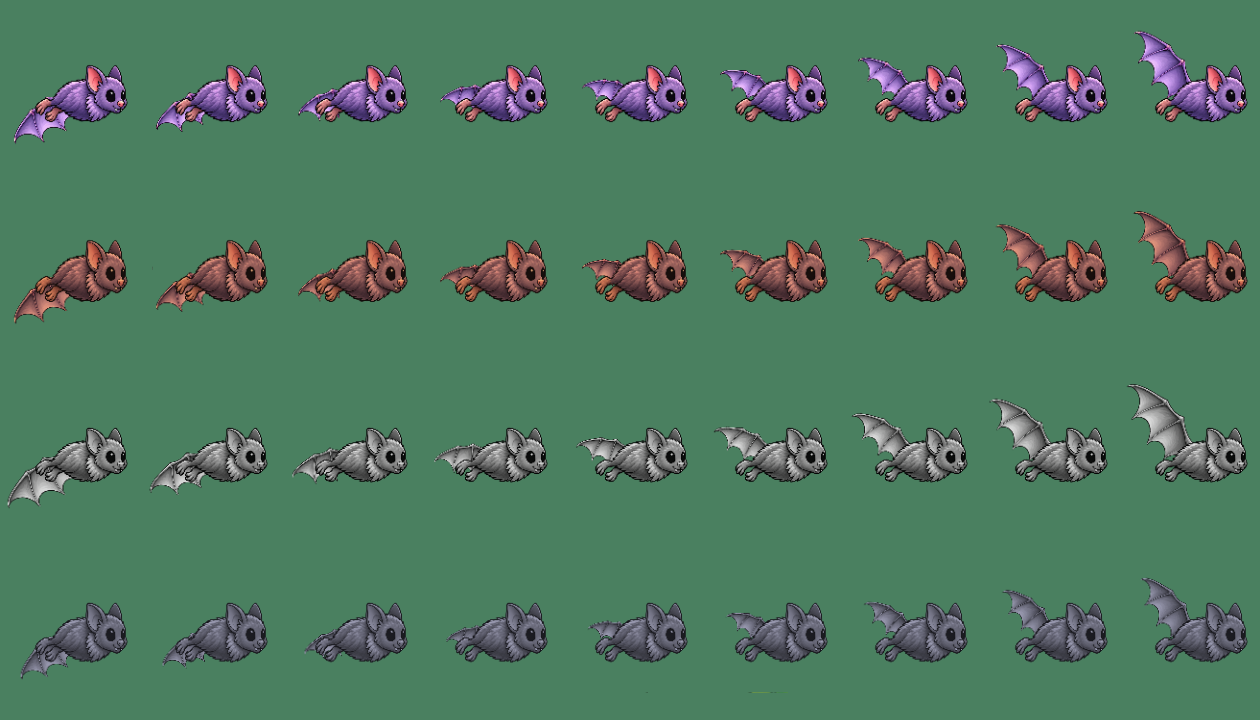
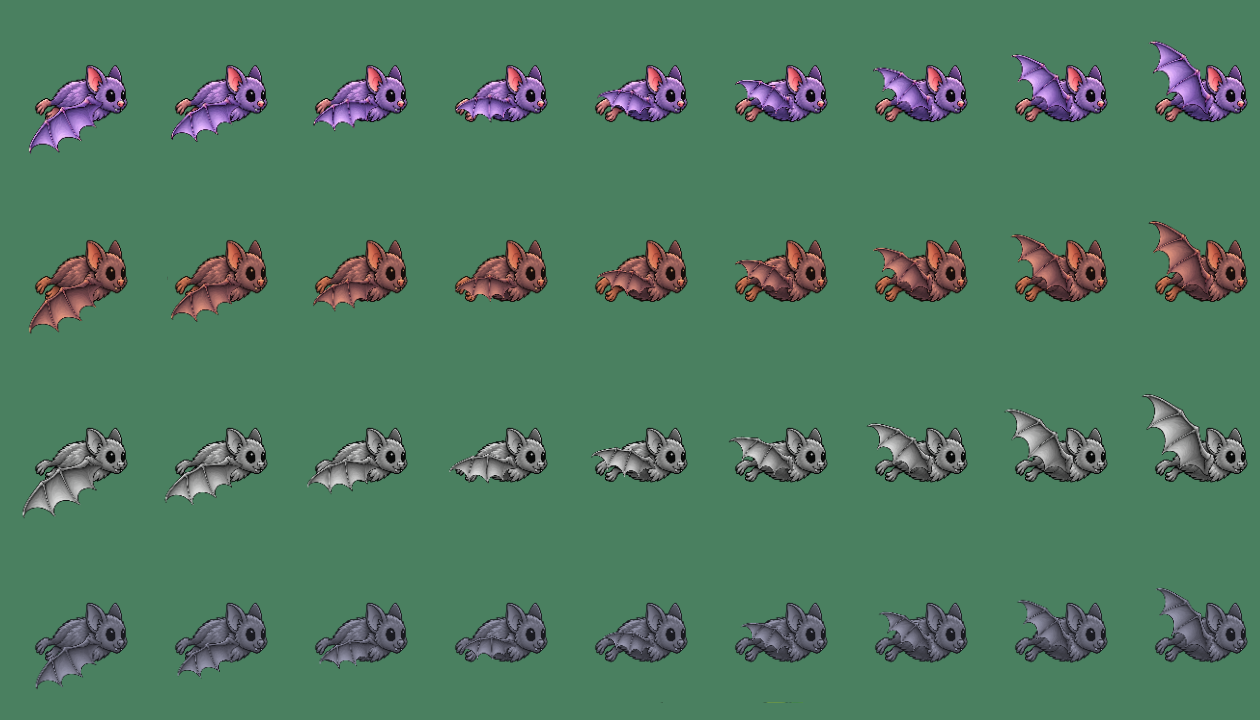
Correct cartoon lighting and creature attachments

diff --git a/tests/artRegistration.test.js b/tests/artRegistration.test.js
@@ -1,5 +1,7 @@
 import { describe, expect, it } from 'vitest';
 import { registerLimb, registerTriangle } from '../src/art/registration.js';
+import { readFileSync } from 'node:fs';
+import { imageSize } from '../src/art/custom.js';
 
 const apply = ([a, b, c, d, e, f], [x, y]) => [a * x + c * y + e, b * x + d * y + f];
 const near = (actual, expected) => actual.forEach((v, i) => expect(v).toBeCloseTo(expected[i], 10));
@@ -20,6 +22,20 @@ describe('painted joint registration', () => {
     const source = [[58, 61], [279, 65], [144, 365]], target = [[-7, -1], [7, -1], [0, 15]];
     const matrix = registerTriangle(source, target);
     source.forEach((point, i) => near(apply(matrix, point), target[i]));
+  });
+
+  it('places the hanging legs at the hip sockets actually exported in the torso', () => {
+    const root = new URL('../art/packs/cartoon/', import.meta.url);
+    const layout = JSON.parse(readFileSync(new URL('source-layout.json', root)));
+    const manifest = JSON.parse(readFileSync(new URL('manifest.json', root)));
+    const svg = readFileSync(new URL('generated/hangingMonkey.body.svg', root), 'utf8');
+    const matrix = svg.match(/href="#[^"]*picture-monkey-torso" transform="matrix\(([^)]+)\)"/)[1].split(' ').map(Number);
+    const { width, height } = imageSize('monkey-torso.png', readFileSync(new URL('components/monkey-torso.png', root)));
+    const marks = layout.components['monkey-torso'].landmarks;
+    for (const [i, name] of ['hipBack', 'hipFront'].entries()) {
+      near(manifest.presentation.hangingMonkeyHips[i], apply(matrix, [marks[name][0] * width, marks[name][1] * height]));
+      expect(manifest.presentation.hangingMonkeyHips[i][1]).toBeLessThan(42);
+    }
   });
 
   it('rejects unusable artist landmarks instead of exporting detached parts', () => {

diff --git a/src/render/world/decorations.js b/src/render/world/decorations.js
@@ -42,7 +42,7 @@ import {
   perchedSnakePose,
 } from '../../views/obstacles.js';
 import { quadraticPoints } from './build.js';
-import { LEG, aim } from '../../views/monkey.js';
+import { LEG } from '../../views/monkey.js';
 
 // The decorations a branch carries, in the Phaser version (as the Pixi DECORATIONS): each
 // builds its part from pieces (`b`, a Builder) and the decoration's random stream, and
@@ -129,15 +129,17 @@ function monkey(b, rand) {
   swing.add([tail, ...legs.flat(), ...(painted ? [arms, body] : [body, arms]), eyes]);
   part.add(swing);
   return {
-    part,
+    part, behindBranch: painted,
     animate(t) {
       const pose = hangingMonkeyPose(t, phase);
       swing.rotation = pose.swing;
       pose.legs.forEach(({ from, to }, i) => {
         if (painted) {
           const leg = legs[i];
-          leg.setPosition(...from).setRotation(aim({ x: from[0], y: from[1] }, { x: to[0], y: to[1] }));
-          leg.scaleY = b.art.unit('monkey.p1.leg') * Math.hypot(to[0] - from[0], to[1] - from[1]) / LEG.length;
+          const hip = b.art.catalog.presentation.hangingMonkeyHips?.[i] ?? from;
+          const dx = to[0] - from[0], dy = to[1] - from[1];
+          leg.setPosition(...hip).setRotation(Math.atan2(-dx, dy));
+          leg.scaleY = b.art.unit('monkey.p1.leg') * Math.hypot(dx, dy) / LEG.length;
           return;
         }
         const [segment, start, end] = legs[i];

diff --git a/src/render/world/obstacles.js b/src/render/world/obstacles.js
@@ -36,7 +36,8 @@ function branch(b, o, rand, hangs, view) {
   const parts = hangs
     ? [...vine(b, box.dx + 30, canopyY(o), box.dy + 2, 8), ...vine(b, box.dx + box.w - 45, canopyY(o), box.dy + 4, -8)]
     : [b.stretched('branch.trunk', BRANCH_TRUNK_X, 0, trunkBottom(o), TRUNK_REFERENCE)];
-  parts.push(b.image('branch.body'));
+  const wood = b.image('branch.body');
+  parts.push(wood);
   for (const { x0, y0, x1, y1 } of branchBarkLines(rand)) {
     const line = b.image('branch.barkLine').setPosition(x0, y0).setRotation(Math.atan2(y1 - y0, x1 - x0));
     line.scaleX = (b.art.unit('branch.barkLine') * Math.hypot(x1 - x0, y1 - y0)) / BARK_LINE_LENGTH;
@@ -44,8 +45,9 @@ function branch(b, o, rand, hangs, view) {
   }
   view.add(parts);
   if (!o.decoration) return null;
-  const { part, animate } = DECORATION_RIGS[o.decoration](b, mulberry32(mixSeed(0xa11a, o.gap)), { hangs });
-  view.add(part);
+  const { part, animate, behindBranch } = DECORATION_RIGS[o.decoration](b, mulberry32(mixSeed(0xa11a, o.gap)), { hangs });
+  if (behindBranch) view.addAt(part, parts.indexOf(wood));
+  else view.add(part);
   return animate;
 }
 

diff --git a/tests/templeFire.test.js b/tests/templeFire.test.js
@@ -1,6 +1,8 @@
 import { describe, it, expect } from 'vitest';
 import { darknessOf } from '../src/views/obstacles.js';
 import { STAGE_TINTS } from '../src/views/backdrop.js';
+import { readFileSync } from 'node:fs';
+import { Resvg } from '@resvg/resvg-js';
 
 describe('temple fires', () => {
   it('measures how dark a stage is from its tint: none by day, most at night', () => {
@@ -11,5 +13,14 @@ describe('temple fires', () => {
     expect(night).toBeGreaterThan(dusk);
     expect(dawn).toBeLessThan(dusk);
     expect(late).toBeGreaterThan(0);
+  });
+
+  it('keeps the cartoon light source opaque so the rig applies its falloff once', () => {
+    const svg = readFileSync(new URL('../art/packs/cartoon/generated/temple.glow.svg', import.meta.url));
+    const { pixels, width, height } = new Resvg(svg).render();
+    const alphaAt = (x, y) => pixels[(y * width + x) * 4 + 3];
+    expect(alphaAt(width / 2, height / 2)).toBe(255);
+    expect(alphaAt(width / 2, height / 4)).toBe(255);
+    expect(alphaAt(0, 0)).toBe(0);
   });
 });

diff --git a/src/render/world/temple.js b/src/render/world/temple.js
@@ -98,14 +98,14 @@ export function templeRig(b, o, rand) {
         shownTint = tint;
       }
       if (!fire) return;
-      const dark = darknessOf(tint);
+      const light = Math.max(darknessOf(tint), art.catalog.presentation?.templeFireDaylight ?? 0);
       TEMPLE_BRAZIERS.forEach((x, i) => {
         const flame = templeFlame(t, phase, i);
         art.setFrame(fire.flames[i], 'temple.flame', flameFrameFor(flame.sway, flame.k));
         fire.flames[i].setX(x);
-        const layers = templeGlowLayers(dark * flame.flicker, flame.reach);
+        const layers = templeGlowLayers(light * flame.flicker, flame.reach);
         fire.glows[i].forEach((disc, j) => {
-          disc.visible = dark > 0;
+          disc.visible = light > 0;
           disc.setPosition(x, TEMPLE_GLOW_Y).setScale((glowUnit * layers[j].radius) / TEMPLE_GLOW_RADIUS).setAlpha(layers[j].alpha);
         });
       });

diff --git a/src/render/world/moving.js b/src/render/world/moving.js
@@ -101,7 +101,12 @@ function bat(b, o) {
   const name = BAT_LOOK_NAMES[BAT_LOOKS.indexOf(flyingBatLook(o.gap))];
   const body = b.container();
   const wing = b.image(`bat.${name}.wing`);
-  body.add([wing, b.image(`bat.${name}.body`)]);
+  const torso = b.image(`bat.${name}.body`);
+  const offset = b.art.catalog.presentation?.batWingOffset;
+  if (offset) wing.setPosition(...offset);
+  // The painted torso shows the near flank: its wing belongs over that fur,
+  // at the shoulder behind the head. Classic retains its original stacking.
+  body.add(offset ? [torso, wing] : [wing, torso]);
   return {
     parts: [body],
     body,

diff --git a/PHASER_PLAN.md b/PHASER_PLAN.md
@@ -815,17 +815,17 @@ Add a clearly labelled **Classic graphics: On/Off** row inside the existing titl
 - Fit branch-snake wraps to the painted limb's thickness (`presentation.snakeLimbThickness`). Blue bird bodies/wings now use lighter cyan and pale highlights; the hive's support is a shaded wooden twig with a short attaching stalk, rather than a gold ribbon. Waterfalls are removed from the mirrored forest master and placed separately: one large and one small per complete 2048-unit panorama, with the same far-layer speed and texture dimensions.
 - Hanging obstacles' support vines now have a pale green center, dark rim and crosswise shading, with matching end caps. These baked textures keep the original support-vine box/width and curve placement, and retain their highlight along the whole hanging length.
 - Climbing snakes now have rounded overlapping coils, a short tapered tail and a smaller head with a connected neck. The cartoon head leads up/down and tilts continuously with the movement phase, keeping its face upright instead of reflecting it vertically. Its reversal is about three times quicker, reducing time spent crossing the coils. The hanging monkey uses warm russet arms/body/tail and matching painted articulated legs/feet, with its hands attached to the painted branch and its face ahead of its raised arms. Player limbs are registered by painted shoulder/palm/hip landmarks, so the visible arm joint coincides with its pivot and the palm with the existing grip distance; the torso's shoulders share those anchors. Cartoon heads/eyes render ahead of the gripping arm (`presentation.monkeyFaceInFront`) for both players and the shadow. Classic art/poses, simulation and grip physics remain unchanged.
-- Temple holders and flames now share brazier centers and a common base height; roof/corner/fringe foliage uses painted leaves registered at their stems, with roof leaves kept inside the source bounds. Flying bats use a separate painted scalloped wing, registered by shoulder/tip landmarks across the original 41-frame flap cycle for all four palettes.
+- Temple holders and flames now share brazier centers and a common base height; roof/corner/fringe foliage uses painted leaves registered at their stems, with roof leaves kept inside the source bounds. Flying bats use a separate painted scalloped wing, registered by shoulder/tip landmarks across the original 41-frame flap cycle for all four palettes. The wing now draws over the near flank at its painted shoulder. Torchlight uses an opaque source with the classic layered falloff, plus a subtle cartoon daytime light. Hanging legs use exported hip-socket anchors; palms sit behind the branch with fingertips over the top.
 - Extended `/art.html` with pack selection, source/atlas comparison, frame sliders/animation and repeat seams. `/rigs.html` uses the actual game rigs for fixed poses, every obstacle family, day/night/temple scenes and UI, with optional 2× rendering. `/cartoon.html` retains the approved style sample and points to the playable pack. The authoring guide documents masters, crops, recipes, coverage, exported placements and editing/build commands.
 - **Texture/download sizes:** decimal MB; downloads include the selected catalog, atlas JSON/PNG and unique tiles, before any HTTP transfer compression. Texture sizes include both sets and tiles; PNG sources/review pages are excluded from the production build.
 
 | Pack | Texture 1× | Texture 2× | Texture 4× | Download 1× | Download 2× | Download 4× |
 |---|---:|---:|---:|---:|---:|---:|
 | Classic | 46.6 MB | 105.6 MB | 254.2 MB | 1.17 MB | 2.20 MB | 4.09 MB |
-| Cartoon | 46.6 MB | 106.2 MB | 256.4 MB | 7.44 MB | 11.05 MB | 21.00 MB |
+| Cartoon | 46.6 MB | 106.2 MB | 256.4 MB | 7.42 MB | 11.00 MB | 20.85 MB |
 
 - Both packs satisfy 120 MB at 2× and 300 MB at 4×. The painted pack has a larger compressed download; the loader still fetches only that pack and scale. Startup/decode timing and the cached 1.5-second/60 Hz budgets must be checked on Safari M1 and iPhone 13 mini before acceptance; Chromium software rendering is not a substitute for those device results.
-- Validation: production build and source/inventory checks pass; the latest full unit run passed **69 files / 742 tests**, with focused checks after later changes. Classic references and the classic gallery remain passing (0.17% differing pixels). The cartoon gallery's aggregate comparison is about **1.17%**, above the gallery's 1% aggregate guide; the same eight per-frame flags remain after this artwork pass. Eight small 2× raw-SVG versus PNG/blur edge comparisons remain flagged (canopy, red/purple perched bird heads, snake coil/head and all three flying bird bodies); they remain visible for owner review rather than being suppressed or given a relaxed threshold. All **82 Chromium browser checks** pass across the full run and focused retries: 81 passed in the full run; the newly added mode test queued a redundant mode key with Start, then passed after waiting for mode selection appropriately. The anatomy follow-up passes 22 focused unit checks and ten browser checks, including the unchanged classic references. No visual or timing thresholds were relaxed.
+- Validation: production build and source/inventory checks pass; the latest full unit run passed **69 files / 742 tests**, with focused checks after later changes. Classic references and the classic gallery remain passing (0.17% differing pixels). The cartoon gallery's aggregate comparison is about **1.17%**, above the gallery's 1% aggregate guide; the same eight per-frame flags remain after this artwork pass. Eight small 2× raw-SVG versus PNG/blur edge comparisons remain flagged (canopy, red/purple perched bird heads, snake coil/head and all three flying bird bodies); they remain visible for owner review rather than being suppressed or given a relaxed threshold. All **82 Chromium browser checks** pass across the full run and focused retries: 81 passed in the full run; the newly added mode test queued a redundant mode key with Start, then passed after waiting for mode selection appropriately. The anatomy follow-up passed 22 focused unit checks. The lighting/attachment follow-up passes 20 focused unit checks and ten browser checks, including the unchanged classic references; native pixel comparisons confirm warm light on the stone by day/dusk/night and unchanged classic daylight behavior. No visual or timing thresholds were relaxed.
 - **Acceptance remaining:** inspect/approve the full artwork and the eight source-comparison flags, approve the captured `art/packs/cartoon/review/runtime/` reference candidates, and complete the real-device gameplay/startup/frame pass. The milestone is not marked done and M9 has not started.
 
 ### M9. Cleanup and release (S)

diff --git a/art/packs/cartoon/README.md b/art/packs/cartoon/README.md
@@ -82,16 +82,26 @@ lingering halfway across the coils. `presentation.monkeyRootY` attaches the hang
 monkey's painted hands to the branch. `presentation.hangingMonkeyLegTint` selects
 painted articulated player-leg components for that decoration, with a russet tint
 matching its baked arms, torso and tail; its face renders ahead of its arms.
+`hangingMonkeyHips` is exported from the painted hip sockets using the same
+transform as the torso. Legs animate from those sockets, rather than the classic
+hip coordinates. The decoration draws behind the branch, with its palms at the
+painted wood center and only the gripping fingertips visible over the top.
 Classic keeps its original poses/placement.
 
 Temple braziers use the same `TEMPLE_BRAZIERS` centers as the flames; rims and
-flame bases share the first tier's offset. Temple corner/roof/fringe leaves use
+flame bases share the first tier's offset. The glow source is opaque: the
+renderer supplies its falloff through the same translucent layers as classic,
+avoiding double attenuation. `presentation.templeFireDaylight` retains a faint
+warm light by day, with the stage darkness strengthening it at dusk/night.
+Temple corner/roof/fringe leaves use
 painted foliage rooted at the placement point, with the roof leaves kept inside
 the sprite box. Flying bat wings register the painted shoulder and tip
 landmarks through the 41 original flap frames, retaining their finger bones and
 scalloped membranes. The membrane turns with its shoulder instead of being
 sheared against a fixed lower root; recoloring uses an explicit filter region
-to keep transformed edges inside the frame visible.
+to keep transformed edges inside the frame visible. `presentation.batWingOffset`
+places the wing over the near flank at the painted shoulder; classic keeps the
+wing behind its torso.
 
 Each generated SVG keeps the logical box and hidden guide layer. Gradient/filter
 names are local to a frame; vector gradients use fixed coordinates to avoid

diff --git a/art/packs/cartoon/review/runtime/README.md b/art/packs/cartoon/review/runtime/README.md
@@ -53,3 +53,9 @@ painted scalloped membrane rotating at the shoulder through down/up strokes;
 `bats-flap-cycle.png` shows nine samples for each palette through the native
 Phaser image renderer at 2.5×. The climbing snake turns its head more quickly
 at reversals, while keeping its pose continuous.
+
+The attachment/light follow-up places bat wings over the near shoulder, hangs
+the monkey from behind the wood with fingers over its top, and roots the legs
+at the actual painted hip sockets. Temple lighting close-ups compare day, dusk
+and night: the light is applied once, with a faint daylight warmth and stronger
+night light. The phase and classic reference behavior remain unchanged.
